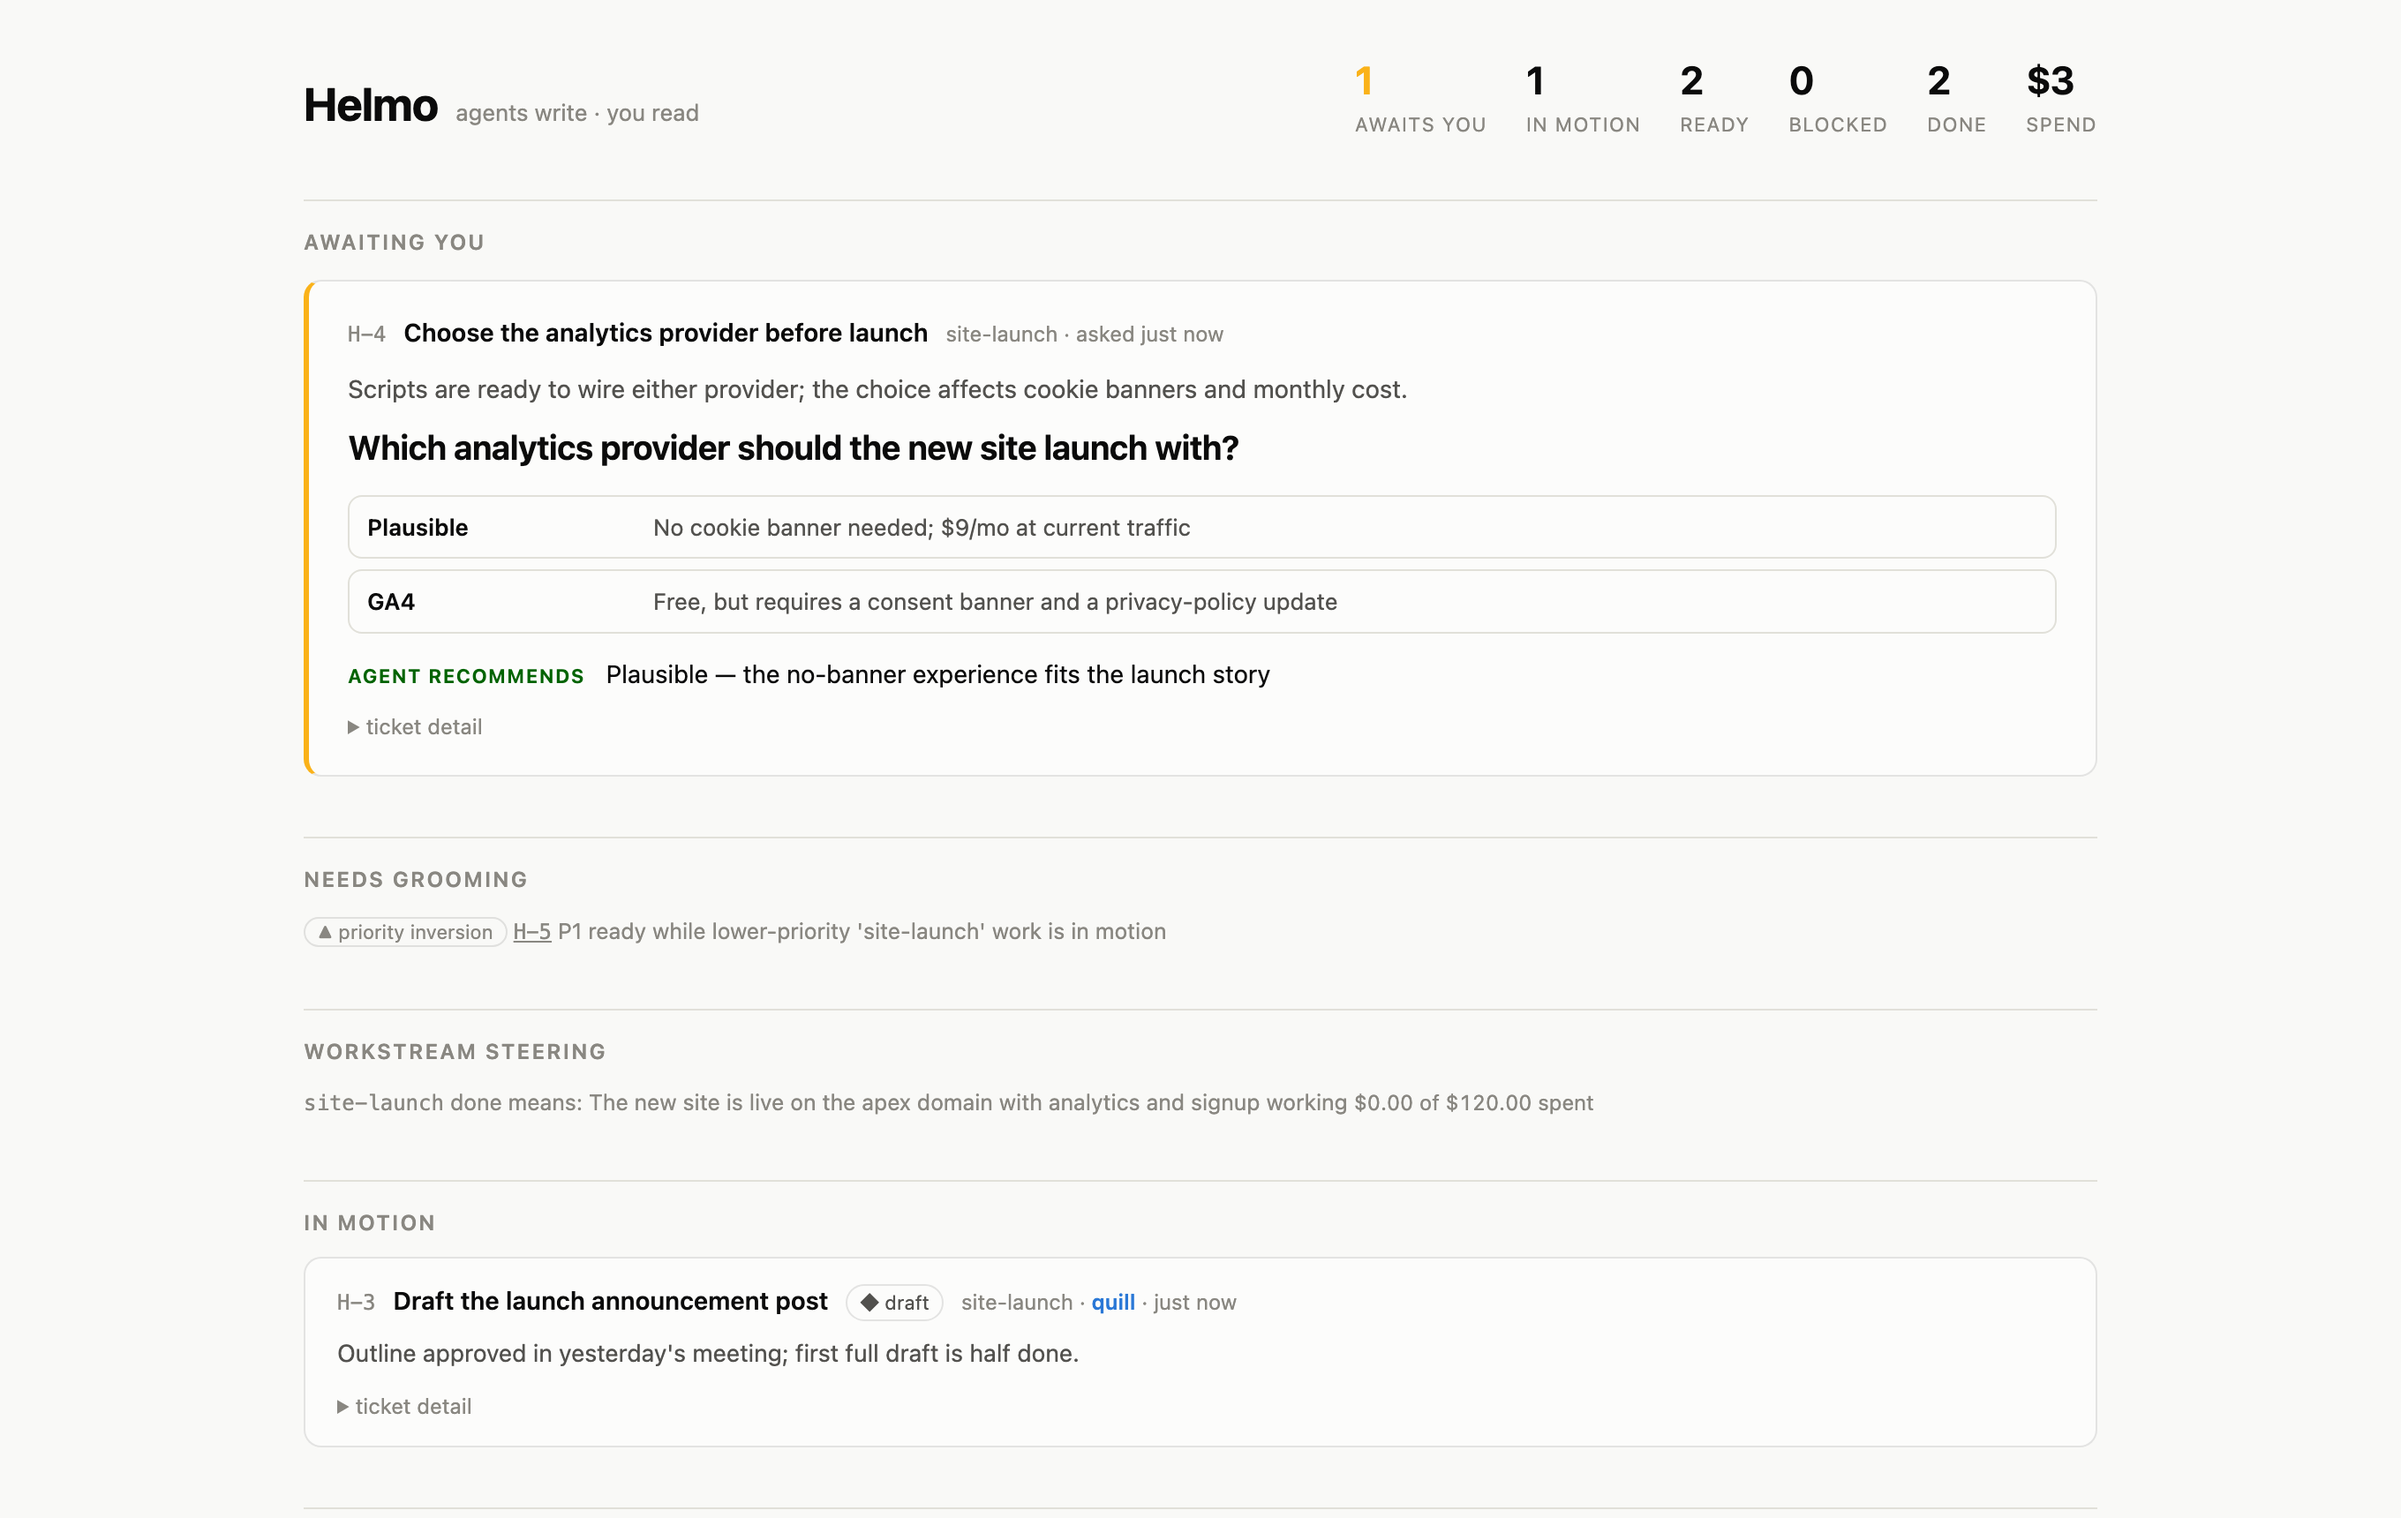
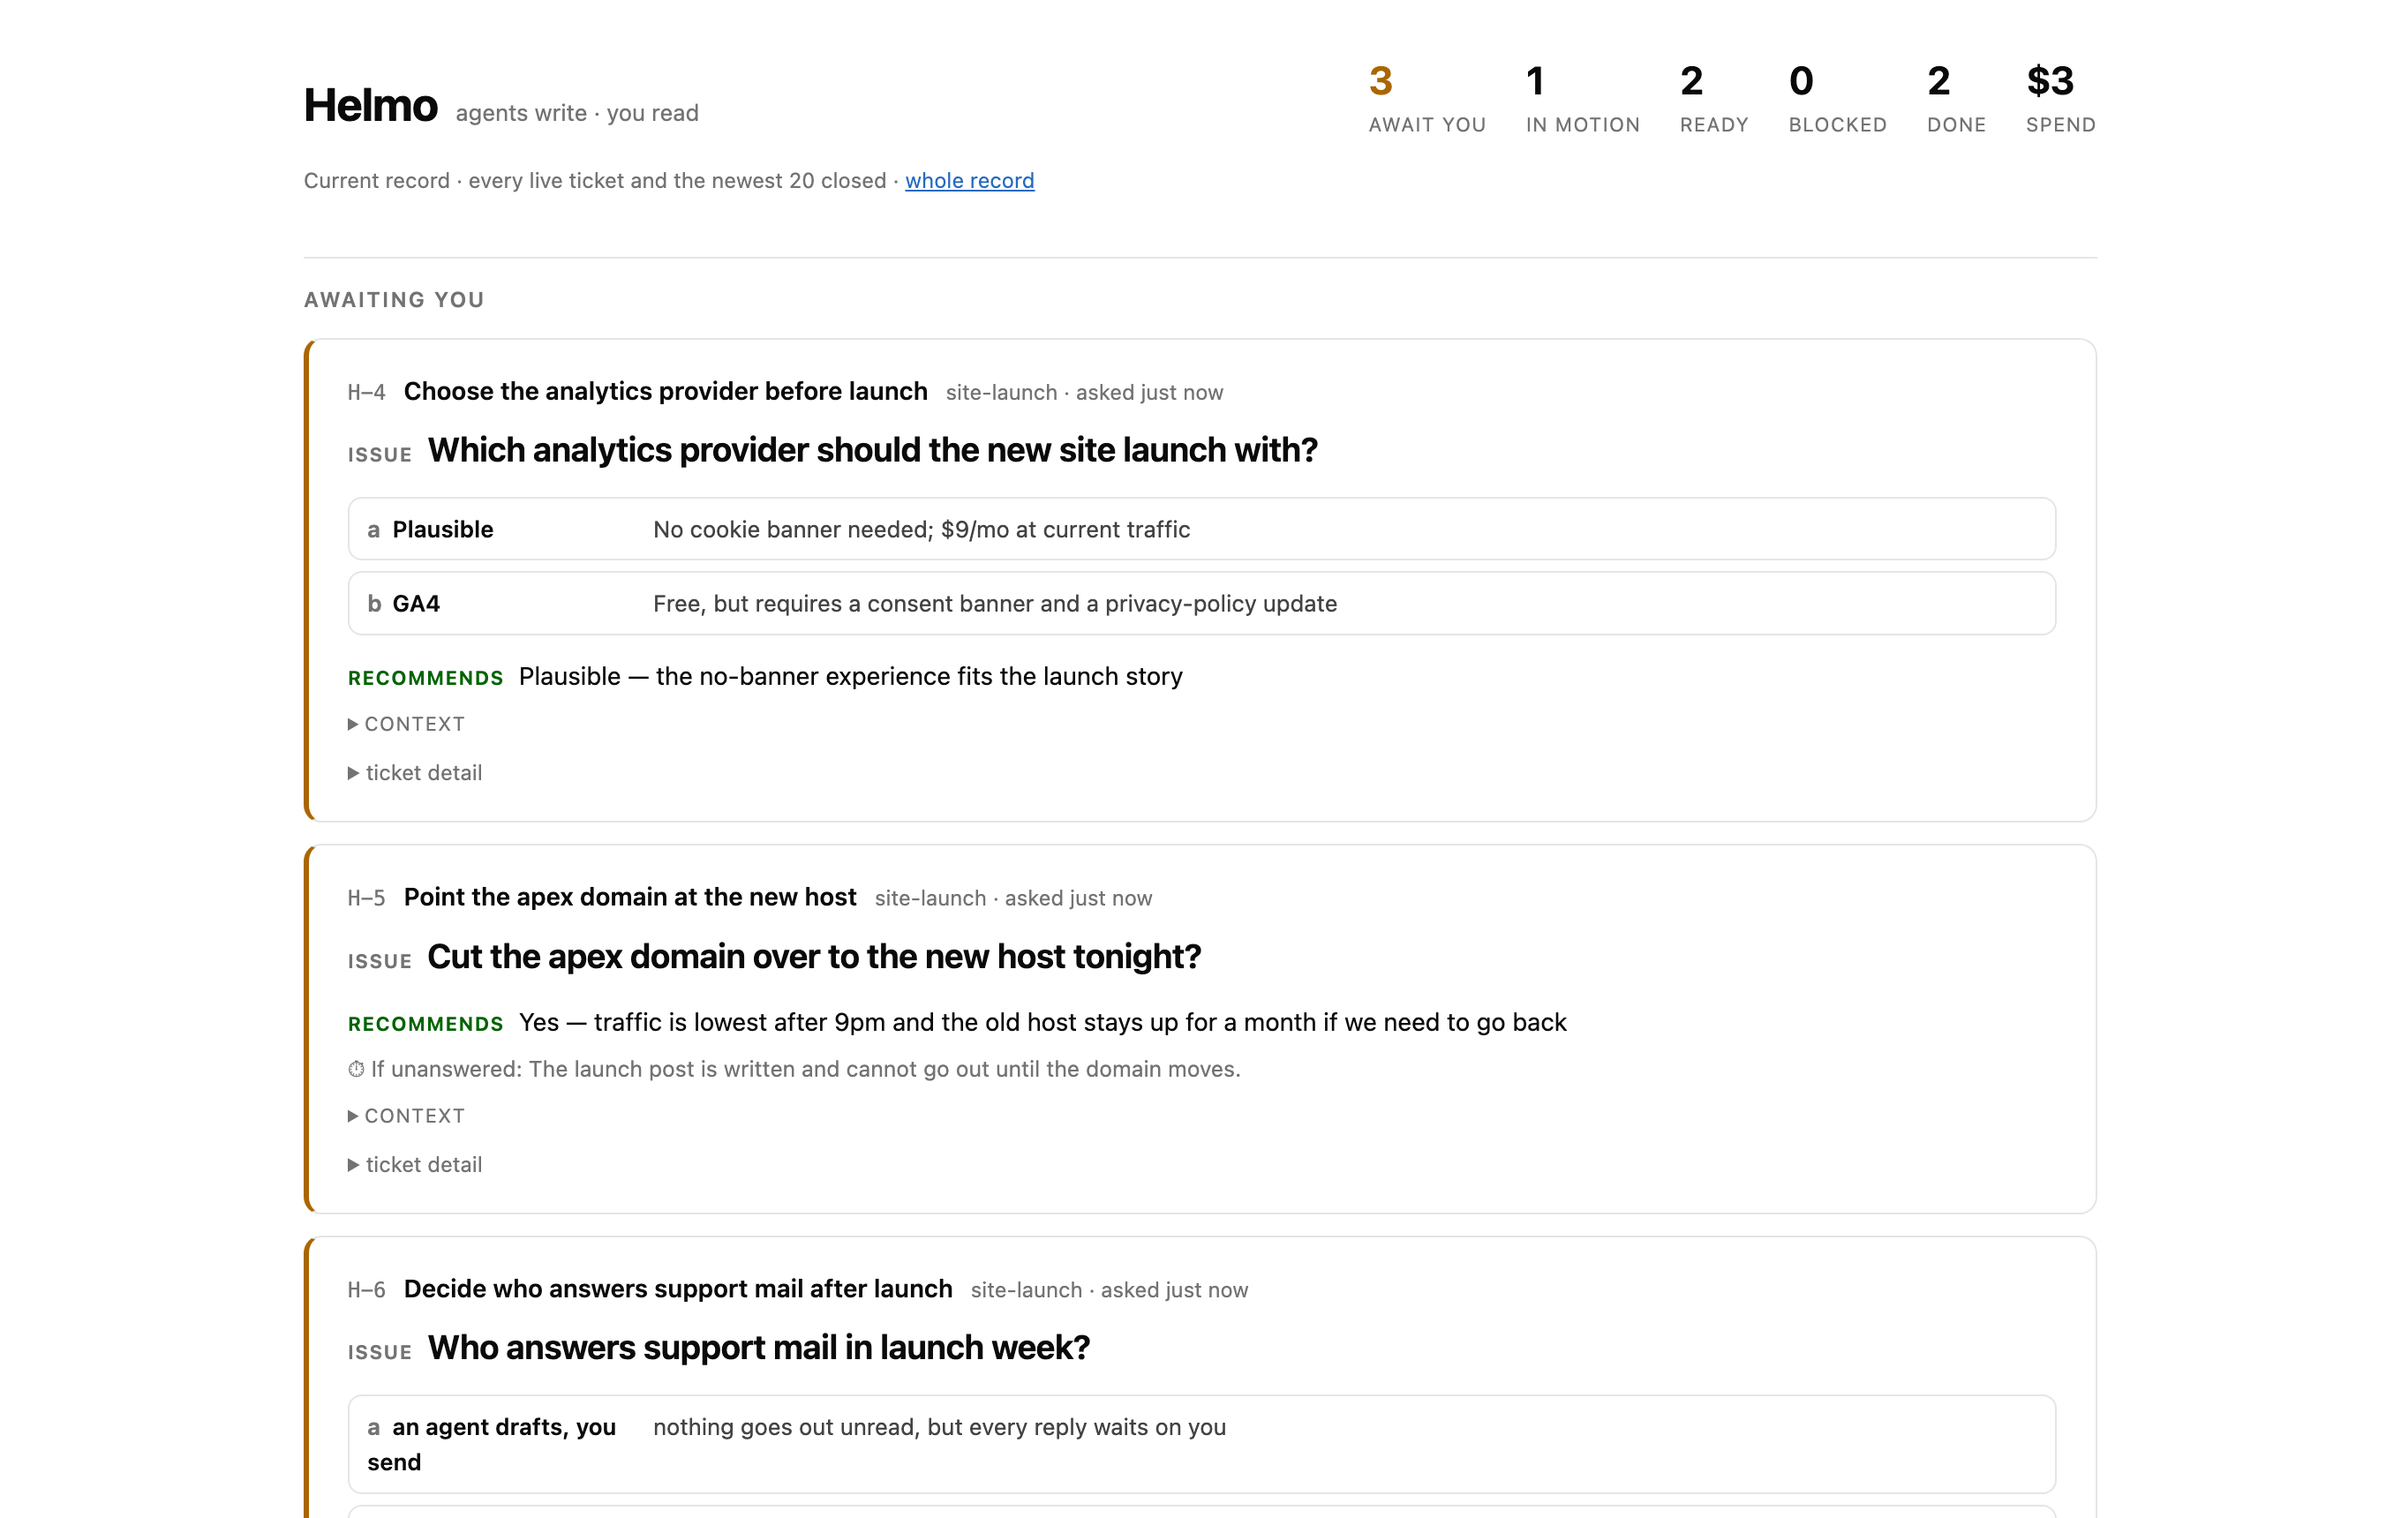
Re-shoot the README hero: the steering strip is gone (H-1189)
The screenshot was captured when the seed set a workstream goal, so it
still showed a WORKSTREAM STEERING section quoting one. H-1186 retired
that strip. Re-shot from a fresh demo-seed board at the same viewport.

The board has grown three awaiting-human cards since the old shot, so
the fold no longer reaches the hygiene flag or the in-motion section the
alt text described; the alt text now says what the image shows.

diff --git a/README.md b/README.md
@@ -4,7 +4,7 @@ Agent work record: **agents write, humans read and meet.**
 
 A self-hosted, platform-agnostic work dashboard for AI agent teams. Agents (Claude Code, Codex, any MCP-capable agent — mostly headless bash loops) create and manage tickets through MCP tools. The human never edits: they read a view, and they work the `awaiting_human` queue in conversation with a summonable orchestrator. Status is self-reported, backed by evidence links; provenance comes from an append-only event log.
 
-![The Helmo view: a question awaiting the human with options and an agent recommendation, a hygiene flag, and work in motion](docs/dashboard.png)
+![The Helmo view: the questions awaiting the human sit at the top of the board, each with the agent's recommendation and with options where the choice is genuinely open, under a row counting what awaits you, what is in motion, and what has been spent](docs/dashboard.png)
 
 That view is the whole interface. Helmo exists for the moment your agents outrun your ability to re-read everything they did: what needs you is at the top, "done" without an evidence link surfaces as a flagged claim, and every line traces to who wrote it — which agent, which model, at what cost.
 
